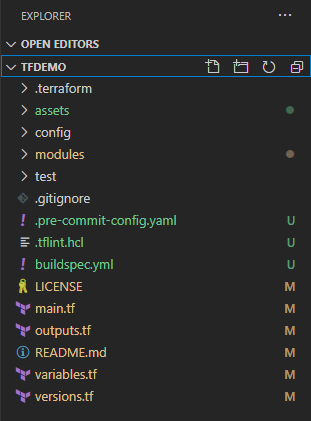
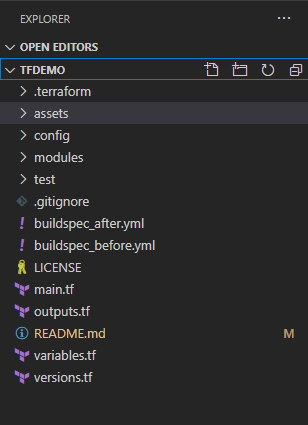
More formatting changes & update directory structure

diff --git a/README.md b/README.md
@@ -1,8 +1,11 @@
 # https://www.hashicorp.com/blog/announcing-hashicorp-terraform-0-13/
 ## Terraform Demo Project
 #### This is only a demo terraform project to get you started. 
-#### It uses teraform 0.13 with aws provider to create a VPC Makes use of modules, variables and outputs.
+#### It uses teraform 0.13 with aws provider to create a VPC & EIP.
+#### Makes use of modules, variables and outputs.
 #### Note how the variables and outputs pass from the root to the module folder.
+#### It makes use of count with modules, a new feature of terraform 0.13
+
 
 ## To run make the following changes
 #### For the versions please make changes to versions.tf
@@ -18,45 +21,45 @@
 <img src="./assets/directory_structure.png">
 
 ## Pre-requisites for local system
-#### `==============`
-#### `1. Download Teraform from https://www.terraform.io/downloads.html`
-#### `==============`
-#### `2. Add Terraform to PATH`
-#### `==============`
-#### `3. Install precommit and tflint as per https://github.com/ksatirli/code-quality-for-terraform`
-#### `==============`
-#### `4. git clone https://github.com/SurdTechnologies/tfdemo.git`
-#### `==============`
-#### `5. cd tfdemo` 
-#### `==============`
-#### `6. Setup the backend to store the terraform state file`
-#### `   a. Create a S3 bucket where you would like to store your tfstate file`
-#### `   b. Put in a dummy terraform.tfstate file in the above bucket`
-#### `   c. Create a DynamoDB table with Primary partition key LockID (String)`
-#### `   d. (Optional) Create a KMS key if you are to use one`
-#### `==============`
-#### `7. Under tfdemo/config folder create a file named <env>.tfvars which contains the following 2 lines`
-#### `   profile = <profile-name>`
-#### `   shared_credentials_file = <credential-file-path>`
-#### `==============`
-#### `8. Declare variables and put in the values for variables in versions.tf`
-#### `   ${BUCKET_NAME}`
-#### `   ${KMS_KEY_ID}`
-#### `==============`
-#### `9. Initialize your terraform project with the command`
-#### `   terraform init`
-#### `==============`
-#### `10. Check on terraform code`
-#### `   terraform fmt`
-#### `   terraform validate`
-#### `==============`
-#### `11. Dry run your code`
-#### `   terraform plan -var-file=./config/<env>.tfvars -out=tfplan`
-#### `==============`
-#### `12. Provision your environment`
-#### `   terraform apply -var-file=./config/<env>.tfvars "tfplan"`
-#### `==============`
-#### `13. Destroy the environment`
-#### `   terraform destroy -var-file=./config/<env>.tfvars`
+#### ==============
+#### 1. Download Teraform from https://www.terraform.io/downloads.html
+#### ==============
+#### 2. Add Terraform to PATH
+#### ==============
+#### 3. Install precommit and tflint as per https://github.com/ksatirli/code-quality-for-terraform
+#### ==============
+#### 4. git clone https://github.com/SurdTechnologies/tfdemo.git
+#### ==============
+#### 5. cd tfdemo 
+#### ==============
+#### 6. Setup the backend to store the terraform state file
+####    a. Create a S3 bucket where you would like to store your tfstate file
+####    b. Put in a dummy terraform.tfstate file in the above bucket
+####    c. Create a DynamoDB table with Primary partition key LockID (String)
+####    d. (Optional) Create a KMS key if you are to use one
+#### ==============
+#### 7. Under tfdemo/config folder create a file named <env>.tfvars which contains the following 2 lines
+####    profile = <profile-name>
+####    shared_credentials_file = <credential-file-path>
+#### ==============
+#### 8. Declare variables and put in the values for variables in versions.tf
+####    ${BUCKET_NAME}
+####    ${KMS_KEY_ID}
+#### ==============
+#### 9. Initialize your terraform project with the command
+####    terraform init
+#### ==============
+#### 10. Check on terraform code
+####    terraform fmt
+####    terraform validate
+#### ==============
+#### 11. Dry run your code
+####    terraform plan -var-file=./config/<env>.tfvars -out=tfplan
+#### ==============
+#### 12. Provision your environment
+####    terraform apply -var-file=./config/<env>.tfvars "tfplan"
+#### ==============
+#### 13. Destroy the environment
+####    terraform destroy -var-file=./config/<env>.tfvars
 
 ## Pre-requisites for AWS CodePipeline/CodeBuild
